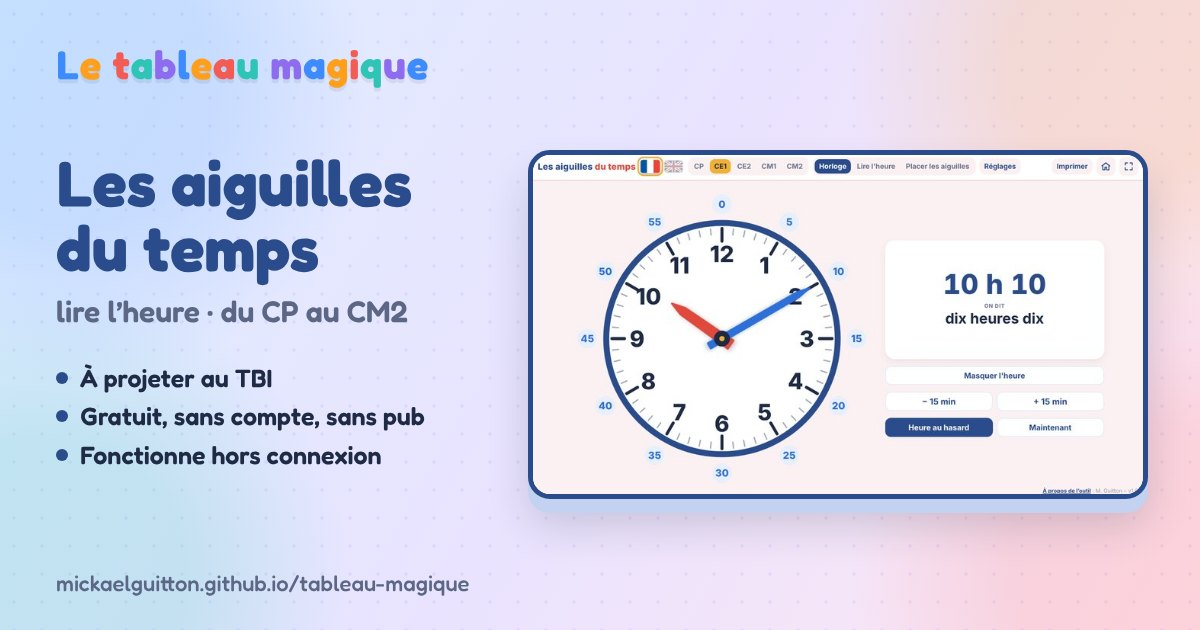
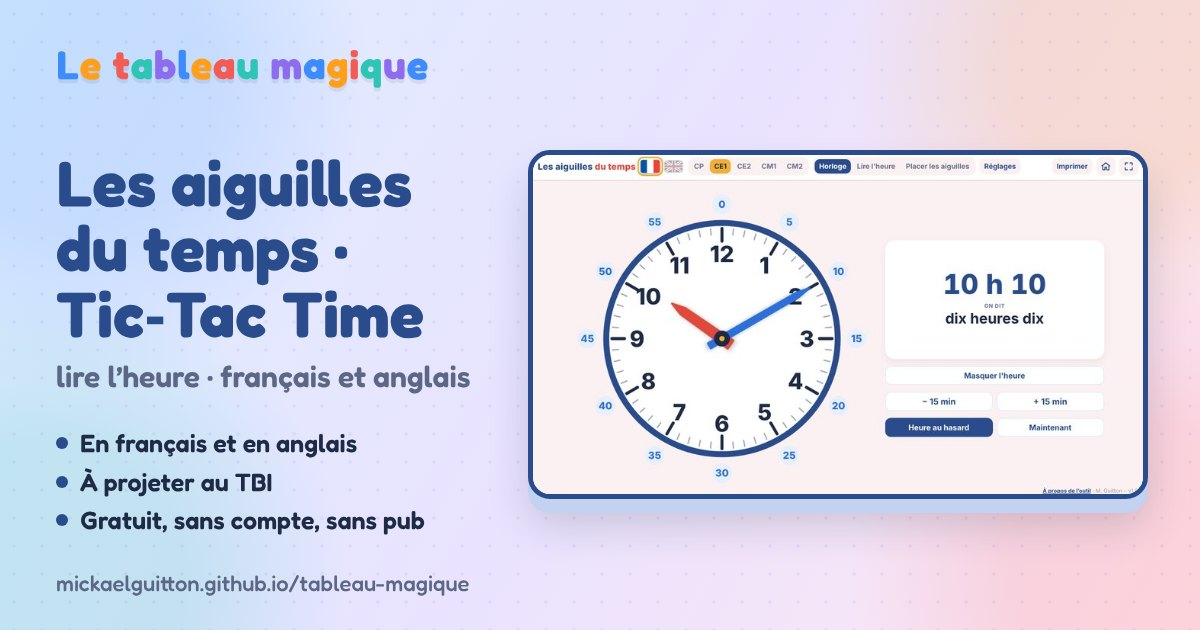
Les aiguilles du temps · Tic-Tac Time : titre et descriptions bilingues
Claude-Session: https://claude.ai/code/session_01Te8xrvMufWVNSVLdwnm9Mc

diff --git a/lire-l-heure/index.html b/lire-l-heure/index.html
@@ -3,17 +3,18 @@
 <head>
 <meta charset="utf-8">
 <meta name="viewport" content="width=device-width, initial-scale=1">
-<title data-court="Les aiguilles du temps">Les aiguilles du temps : apprendre à lire l’heure du CP au CM2, horloge à projeter au TBI – Le tableau magique</title>
+<title data-court="Les aiguilles du temps · Tic-Tac Time">Les aiguilles du temps · Tic-Tac Time : apprendre à lire l’heure en français et en anglais, du CP au CM2 – Le tableau magique</title>
 <meta name="author" content="Mickaël Guitton">
 <meta name="license" content="CC BY-NC 4.0">
-<meta name="description" content="Horloge à aiguilles gratuite pour apprendre à lire l’heure, du CP au CM2, à projeter au TBI : manipuler les aiguilles, rituel sur ardoise avec 1, 4 ou 6 horloges, placer les aiguilles avec correction, matin et après-midi, secondes, fiches à imprimer avec corrigé. Aussi en anglais (telling the time).">
+<meta name="description" content="Horloge à aiguilles gratuite pour apprendre à lire l’heure en français et en anglais (telling the time), du CP au CM2, à projeter au TBI : manipuler les aiguilles, rituel sur ardoise avec 1, 4 ou 6 horloges, placer les aiguilles avec correction, o’clock, half past, quarter to, matin et après-midi, secondes, fiches à imprimer avec corrigé.">
 <!-- Référencement et aperçu du lien quand on le partage (messagerie, réseaux sociaux) -->
 <link rel="canonical" href="https://mickaelguitton.github.io/tableau-magique/lire-l-heure/">
 <meta property="og:type" content="website">
 <meta property="og:site_name" content="Le tableau magique">
 <meta property="og:locale" content="fr_FR">
-<meta property="og:title" content="Les aiguilles du temps : apprendre à lire l’heure du CP au CM2, horloge à projeter au TBI – Le tableau magique">
-<meta property="og:description" content="Horloge à aiguilles gratuite pour apprendre à lire l’heure, du CP au CM2, à projeter au TBI : manipuler les aiguilles, rituel sur ardoise avec 1, 4 ou 6 horloges, placer les aiguilles avec correction, matin et après-midi, secondes, fiches à imprimer avec corrigé. Aussi en anglais (telling the time).">
+<meta property="og:locale:alternate" content="en_GB">
+<meta property="og:title" content="Les aiguilles du temps · Tic-Tac Time : apprendre à lire l’heure en français et en anglais, du CP au CM2 – Le tableau magique">
+<meta property="og:description" content="Horloge à aiguilles gratuite pour apprendre à lire l’heure en français et en anglais (telling the time), du CP au CM2, à projeter au TBI : manipuler les aiguilles, rituel sur ardoise avec 1, 4 ou 6 horloges, placer les aiguilles avec correction, o’clock, half past, quarter to, matin et après-midi, secondes, fiches à imprimer avec corrigé.">
 <meta property="og:url" content="https://mickaelguitton.github.io/tableau-magique/lire-l-heure/">
 <meta property="og:image" content="https://mickaelguitton.github.io/tableau-magique/images/partage-lire-l-heure.jpg">
 <meta name="twitter:card" content="summary_large_image">
@@ -440,11 +441,11 @@ svg.paper .rim{fill:#fff;stroke:#1f2a44;stroke-width:4}
      et par les moteurs de recherche. Mise en forme et ouverture : portail.js -->
 <dialog id="aPropos" aria-labelledby="titreAPropos">
   <article>
-    <h2 id="titreAPropos">Les aiguilles du temps</h2>
-    <p class="chapeau">Une horloge à aiguilles à projeter au tableau pour apprendre à lire l’heure, du CP au CM2, en français et en anglais.</p>
+    <h2 id="titreAPropos">Les aiguilles du temps · Tic-Tac Time</h2>
+    <p class="chapeau">Une horloge à aiguilles à projeter au tableau pour apprendre à lire l’heure en français et en anglais, du CP au CM2.</p>
 
     <h3>À quoi sert cet outil ?</h3>
-    <p>Les aiguilles du temps affiche au TBI ou au vidéoprojecteur une grande horloge dont on fait glisser les aiguilles, au doigt ou à la souris. L’heure s’écrit en chiffres et en lettres pendant qu’on tourne les aiguilles. On peut la cacher pour faire chercher les élèves, qui répondent sur l’ardoise. C’est un outil gratuit, sans inscription, qui fonctionne aussi sans connexion une fois installé.</p>
+    <p>Les aiguilles du temps affiche au TBI ou au vidéoprojecteur une grande horloge dont on fait glisser les aiguilles, au doigt ou à la souris. L’heure s’écrit en chiffres et en lettres pendant qu’on tourne les aiguilles, en français ou en anglais : un clic sur le drapeau suffit. On peut la cacher pour faire chercher les élèves, qui répondent sur l’ardoise. C’est un outil gratuit, sans inscription, qui fonctionne aussi sans connexion une fois installé.</p>
 
     <h3>Quatre façons de travailler</h3>
     <ul>
@@ -472,7 +473,12 @@ svg.paper .rim{fill:#fff;stroke:#1f2a44;stroke-width:4}
     </ul>
 
     <h3>En anglais : Tic-Tac Time</h3>
-    <p>Un clic sur le drapeau anglais passe tout l’affichage des élèves en anglais (o’clock, half past, quarter to…), avec sa propre progression et une voix qui lit l’heure. Pratique pour la séance « telling the time » du cycle 3.</p>
+    <p>Le même outil sert à apprendre l’heure en anglais. Le drapeau anglais passe tout l’affichage des élèves en anglais : l’heure écrite et dite (o’clock, half past, quarter past, quarter to, twenty-five to…), les consignes, les corrections et les fiches. Une voix anglaise lit l’heure pour travailler la compréhension orale.</p>
+    <ul>
+      <li><b>Une progression propre à l’anglais,</b> un cran plus simple qu’en français : o’clock en CP, half past en CE1, quarter past et quarter to en CE2, five past et ten to en CM1, twenty past et twenty-five to en CM2. Les autres minutes (seven past…) s’ajoutent dans les réglages.</li>
+      <li><b>Les moments de la journée :</b> in the morning, in the afternoon, in the evening, at night.</li>
+      <li><b>Une séance « telling the time »</b> clé en main : démonstration, rituel sur ardoise, dictée d’heures à l’oral, fiche à imprimer.</li>
+    </ul>
 
     <h3>Les programmes</h3>
     <p>Lire l’heure sur une horloge à aiguilles et connaître les relations entre heures, minutes et secondes fait partie des programmes de mathématiques du cycle 2 (2024) et du cycle 3 (2025), dans le domaine des grandeurs et mesures.</p>
@@ -592,7 +598,7 @@ function roundT(t){ return useSec() ? Math.round(t * 60) / 60 : Math.round(t); }
 function splitTime(t){ const ts = Math.floor(t * 60 + 1e-6); return { mins: Math.floor(ts / 60), s: ts % 60 }; }
 
 const $ = id => document.getElementById(id);
-const TITRE_PAGE = document.title;   // titre complet de la page (référencement), gardé en français
+const TITRE_PAGE = document.title;   // titre complet de la page (référencement), le même dans les deux langues
 const pad = n => String(n).padStart(2,'0');
 const mod = (a,n) => ((a % n) + n) % n;
 
@@ -1498,7 +1504,7 @@ function refreshPanel(){
 function refreshTop(){
   const en = S.lang === 'en';
   $('brand').innerHTML = en ? 'Tic-Tac <span>Time</span>' : 'Les aiguilles <span>du temps</span>';
-  document.title = en ? 'Tic-Tac Time' : TITRE_PAGE;
+  document.title = TITRE_PAGE;   // titre bilingue, le même en français et en anglais
   applyUI();
   $('levels').querySelectorAll('button').forEach(b => b.title = en ? LEVEL_TIPS_EN[b.dataset.level] : '');
   document.querySelectorAll('.topbar [data-mode]').forEach(b => b.classList.toggle('on', b.dataset.mode === S.mode));

diff --git a/index.html b/index.html
@@ -4,7 +4,7 @@
 <meta charset="UTF-8">
 <meta name="viewport" content="width=device-width, initial-scale=1.0">
 <title data-court="Le tableau magique">Le tableau magique : outils gratuits à projeter au TBI, du CP au CM2</title>
-<meta name="description" content="Outils de classe gratuits à projeter au TBI ou au vidéoprojecteur, du CP au CM2 : calcul mental, droites graduées, lecture de l’heure, conjugaison, natures des mots, géométrie, cartes de géographie, copie guidée, jeu de révision en équipes, tirage au sort des élèves, textes adaptés en syllabes de couleur. Fonctionnent sans internet une fois installés.">
+<meta name="description" content="Outils de classe gratuits à projeter au TBI ou au vidéoprojecteur, du CP au CM2 : calcul mental, droites graduées, lecture de l’heure en français et en anglais, conjugaison, natures des mots, géométrie, cartes de géographie, copie guidée, jeu de révision en équipes, tirage au sort des élèves, textes adaptés en syllabes de couleur. Fonctionnent sans internet une fois installés.">
 <!-- Référencement et aperçu du lien quand on le partage (messagerie, réseaux sociaux) -->
 <link rel="canonical" href="https://mickaelguitton.github.io/tableau-magique/">
 <meta name="google-site-verification" content="M0ho2rjFlrCD5UeTchszL2o4FO9_UYwn1Wu52MNHViI">   <!-- Google Search Console -->
@@ -12,7 +12,7 @@
 <meta property="og:site_name" content="Le tableau magique">
 <meta property="og:locale" content="fr_FR">
 <meta property="og:title" content="Le tableau magique : outils gratuits à projeter au TBI, du CP au CM2">
-<meta property="og:description" content="Outils de classe gratuits à projeter au TBI ou au vidéoprojecteur, du CP au CM2 : calcul mental, droites graduées, lecture de l’heure, conjugaison, natures des mots, géométrie, cartes de géographie, copie guidée, jeu de révision en équipes, tirage au sort des élèves, textes adaptés en syllabes de couleur. Fonctionnent sans internet une fois installés.">
+<meta property="og:description" content="Outils de classe gratuits à projeter au TBI ou au vidéoprojecteur, du CP au CM2 : calcul mental, droites graduées, lecture de l’heure en français et en anglais, conjugaison, natures des mots, géométrie, cartes de géographie, copie guidée, jeu de révision en équipes, tirage au sort des élèves, textes adaptés en syllabes de couleur. Fonctionnent sans internet une fois installés.">
 <meta property="og:url" content="https://mickaelguitton.github.io/tableau-magique/">
 <meta property="og:image" content="https://mickaelguitton.github.io/tableau-magique/images/partage.jpg">
 <meta name="twitter:card" content="summary_large_image">

diff --git a/outils.js b/outils.js
@@ -54,11 +54,12 @@ self.OUTILS = [
   {
     dossier: 'lire-l-heure',
     version: '1.0',
-    nom: 'Les aiguilles du temps',
-    niveau: 'lire l’heure · du CP au CM2',
-    texte: 'Une horloge à aiguilles à faire tourner au tableau pour apprendre à lire l’heure. Rituel sur ardoise avec '
-         + '1, 4 ou 6 horloges, placer les aiguilles avec correction, matin et après-midi, secondes. '
-         + 'Fiches à imprimer avec corrigé, et la même horloge en anglais.',
+    nom: 'Les aiguilles du temps\u00a0· Tic\u2011Tac\u00a0Time',   // coupure seulement après « · »
+    niveau: 'lire l’heure · français et anglais',
+    texte: 'Une horloge à aiguilles à faire tourner au tableau pour apprendre à lire l’heure en français et en anglais, '
+         + 'du CP au CM2. Un clic sur le drapeau, et tout passe en anglais : o’clock, half past, quarter to… '
+         + 'Rituel sur ardoise avec 1, 4 ou 6 horloges, placer les aiguilles avec correction, heures dites à l’oral. '
+         + 'Fiches à imprimer avec corrigé.',
     donnees: ['aiguilles-du-temps'],
     couleur: '#2B4C8C', ombre: '#C3D2F0'
   },
